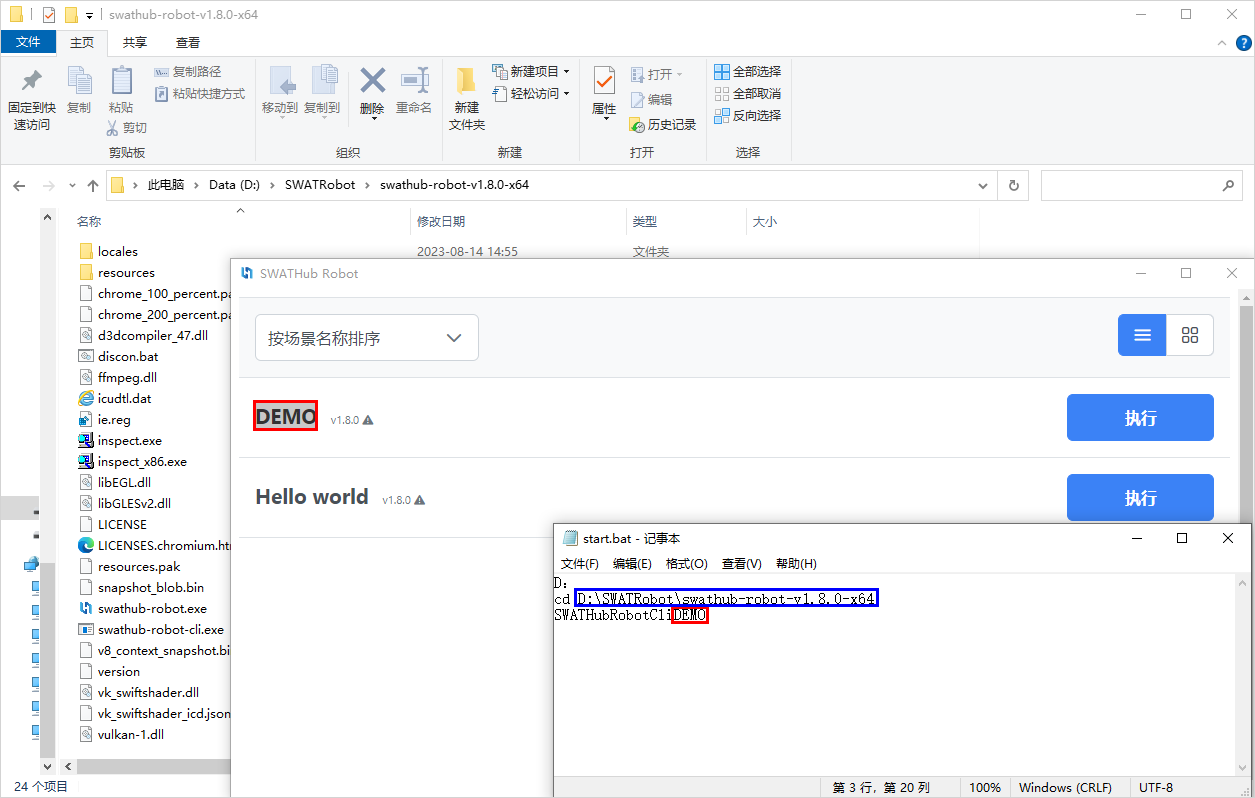
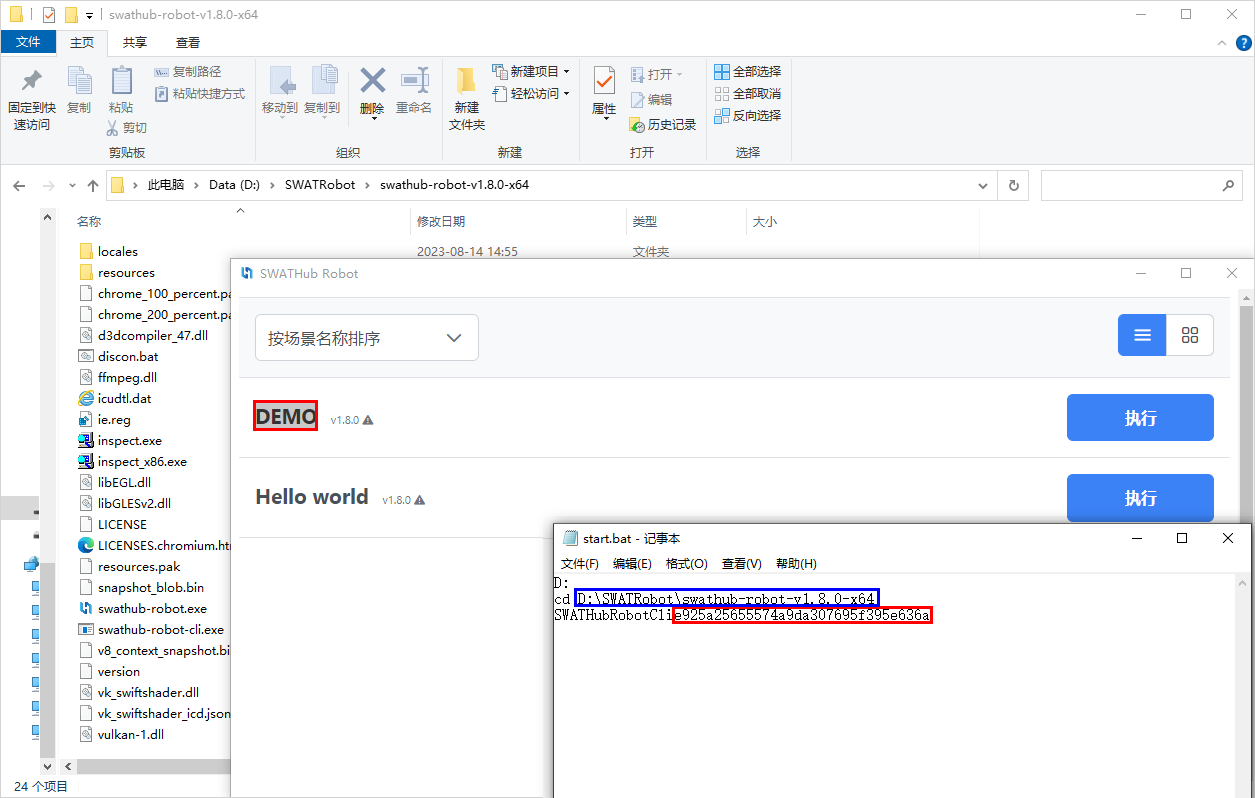
update

Changed region(s): [[0.4351, 0.6617, 1.0, 1.0], [0.5283, 0.7519, 0.7458, 0.782]]

diff --git a/swathub/ja/manual/robot_execution.md b/swathub/ja/manual/robot_execution.md
@@ -86,9 +86,11 @@ SWATHubロボットの**シナリオ**タブのシナリオパッケージリス
 
 `start.bat`ファイルの作成方法は次のとおりです。
 
-*メモ帳を開き、下図の青い枠内にクライアントのインストールパスを入力し、赤い枠内にシナリオタスク名を入力します。
+*メモ帳を開き、下図の青い枠内にクライアントのインストールパスを入力し、赤いボックスにシナリオタスクコードを入力します。タスクコードは、タスクリスト内で直接コピーできます。
 
 ![図20 ロボットスタンドアロンモード14](../assets/img/manual-robot_alone-14.png)
+
+![図21 ロボットスタンドアロンモード14-1](../assets/img/manual-robot_alone-14-1.png)
 
 * Windowsタスクスケジューラで起動時間を設定します。
 

diff --git a/swathub/cn/manual/robot_execution.md b/swathub/cn/manual/robot_execution.md
@@ -91,9 +91,11 @@ SWATHub机器人的**场景**标签中的场景包列表中会出现该场景包
 
 `start.bat` 文件的制作方法如下:
 
-* 打开记事本，在下图蓝色线框位置输入客户端安装路径，红色线框位置输入场景任务名称。
+* 打开记事本，在下图蓝色线框位置输入客户端安装路径，红色线框位置输入场景任务代码。任务代码可以在任务列表中直接复制。
 
 ![图20  机器人单机模式14](../assets/img/manual-robot_alone-14.png)
+
+![图21  机器人单机模式14](../assets/img/manual-robot_alone-14-1.png)
 
 * 通过windows任务计划设定启动时间。
 
